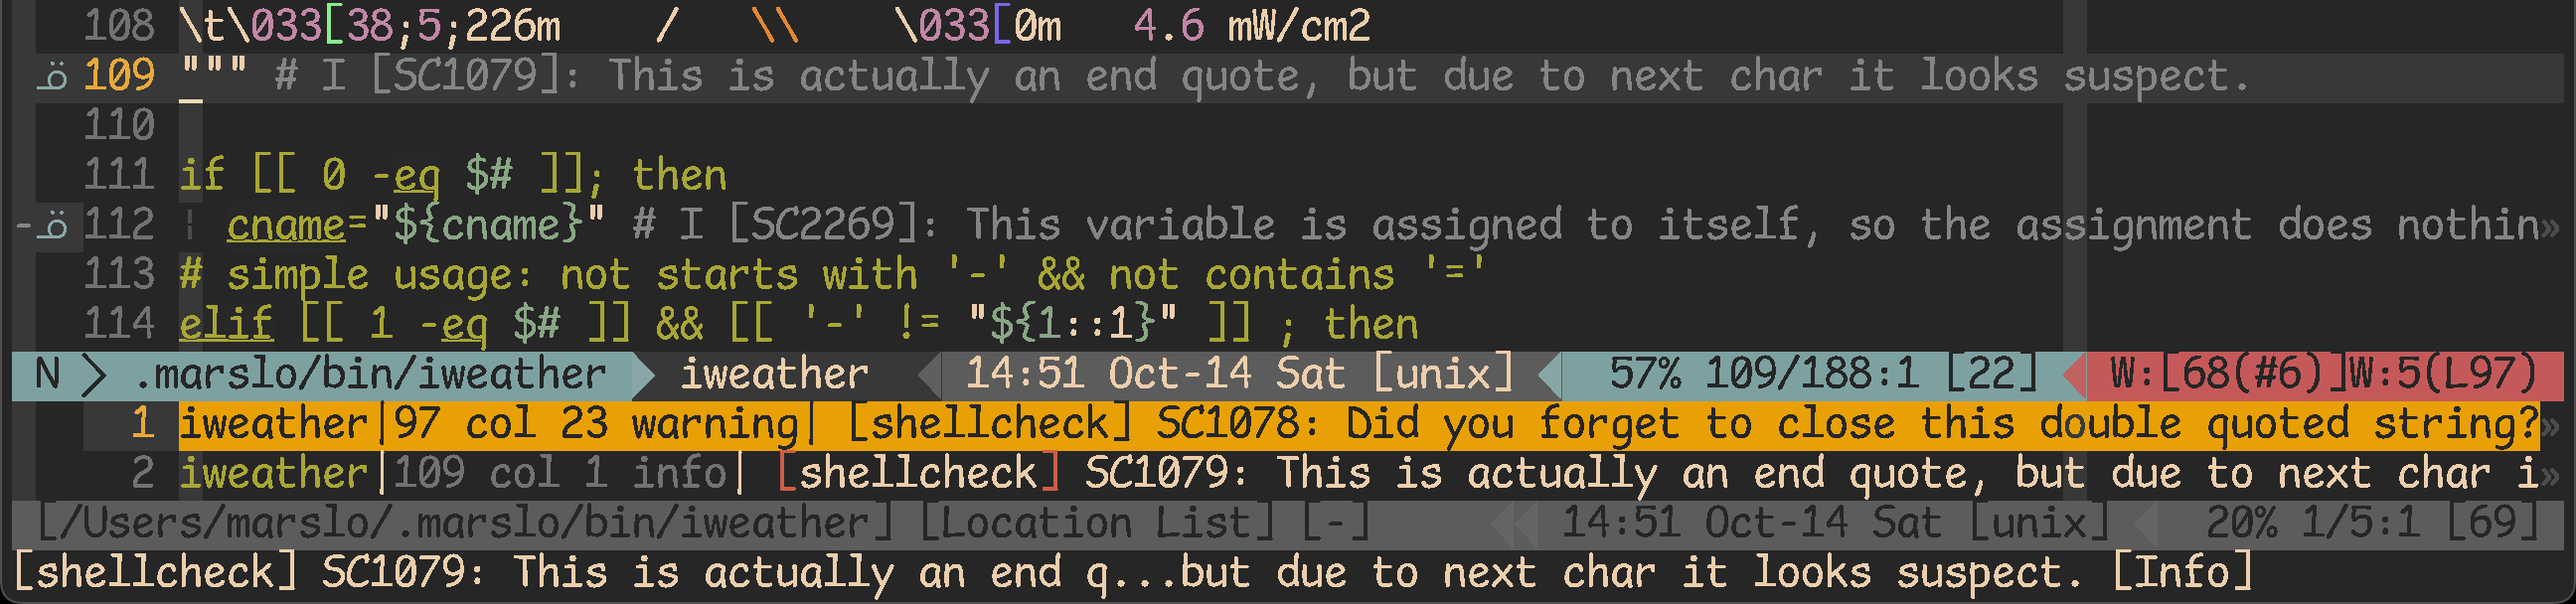
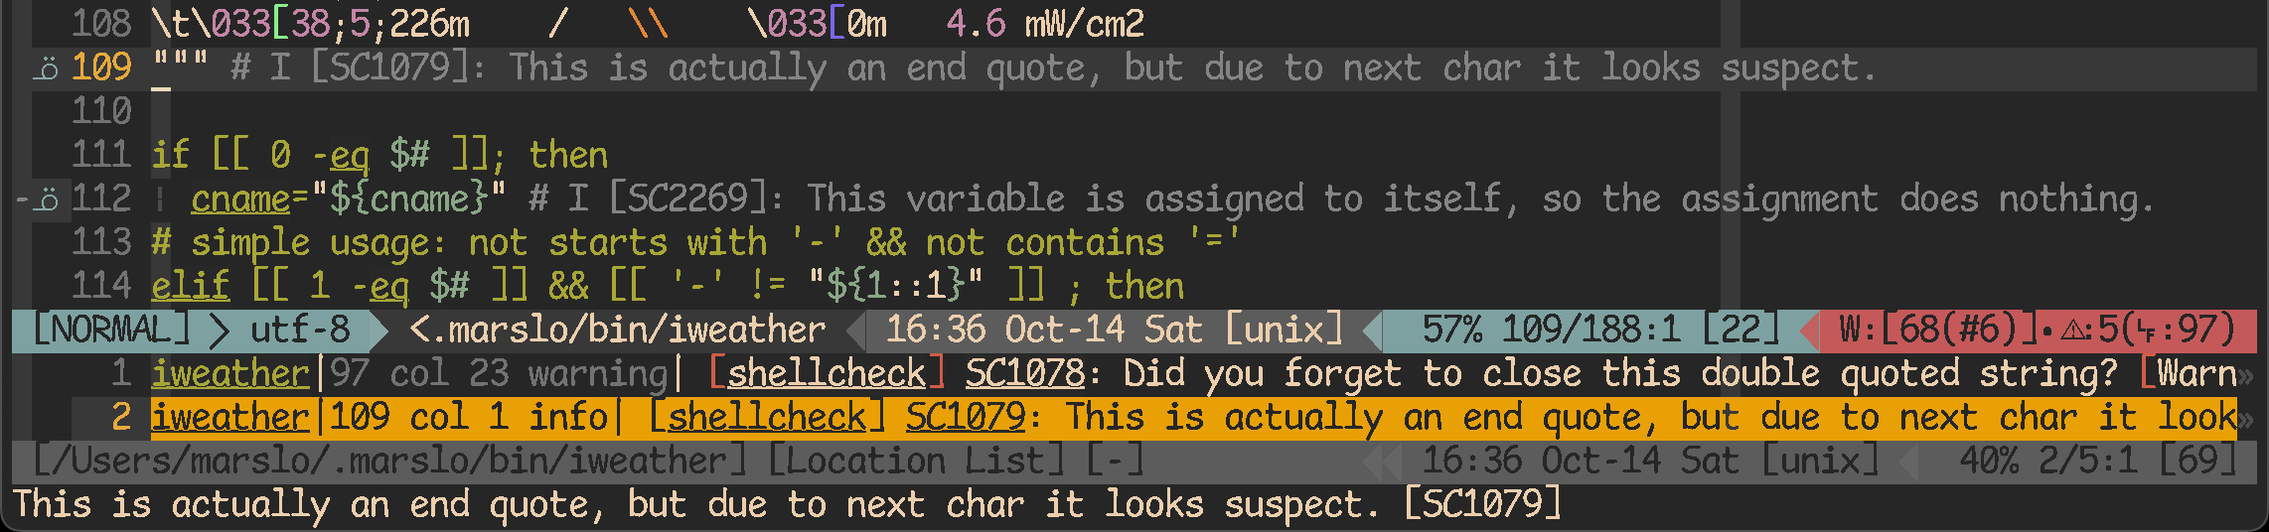
move path into section_c due to secton_a cannot be flush

diff --git a/docs/vim/plugins.md b/docs/vim/plugins.md
@@ -11,6 +11,7 @@
   - [Yggdroot/indentLine](#yggdrootindentline)
   - [airblade/vim-gitgutter](#airbladevim-gitgutter)
   - [vim-airline/vim-airline](#vim-airlinevim-airline)
+  - [dense-analysis/ale](#dense-analysisale)
 - [utils](#utils)
   - [vim-scripts/AuthorInfoDetect](#vim-scriptsauthorinfodetect)
   - [sjl/gundo.vim](#sjlgundovim)
@@ -23,7 +24,6 @@
   - [godlygeek/tabular](#godlygeektabular)
 - [git](#git)
 - [programming](#programming)
-  - [lint](#lint)
   - [vim-syntastic/syntastic](#vim-syntasticsyntastic)
   - [vim-scripts/EnhCommentify.vim](#vim-scriptsenhcommentifyvim)
   - [tpope/vim-commentary](#tpopevim-commentary)
@@ -413,33 +413,44 @@ let g:airline_powerline_fonts                      = 1
 let g:airline_highlighting_cache                   = 1
 let g:airline_detect_spelllang                     = 0              " disable spelling language
 let g:airline_exclude_preview                      = 0              " disable in preview window
-let g:airline_theme                                = 'tomorrow'
-" let g:airline_theme                                = 'zenburn'
+let g:airline_theme                                = 'base16'       " 'apprentice', 'base16_embers', 'gruvbox', 'zenburn'
 let g:Powerline_symbols                            = 'fancy'
 let g:airline_section_y                            = ''             " fileencoding
 let g:airline_section_x                            = ''
 let g:airline_section_z                            = "%3p%% %l/%L:%c [%B]"
 let g:airline_skip_empty_sections                  = 1
+let g:airline_detect_modified                      = 1
+let g:airline_detect_paste                         = 1
 let g:airline#extensions#wordcount#enabled         = 0
+let g:airline#extensions#quickfix#enabled          = 0
+let g:airline#extensions#quickfix#quickfix_text    = 'Quickfix'
 let g:airline#extensions#tabline#fnamemod          = ':t'
-let g:airline#extensions#tabline#enabled           = 1              " enable airline tabline
-let g:airline#extensions#tabline#show_close_button = 0              " remove 'X' at the end of the tabline
-let g:airline#extensions#tabline#tab_min_count     = 2              " minimum of 2 tabs needed to display the tabline
-let g:airline#extensions#tabline#show_splits       = 0              " disables the buffer name that displays on the right of the tabline
-let g:airline#extensions#tabline#enabled           = 1
-let g:airline#extensions#tabline#tab_nr_type       = 1              " tab number
+let g:airline_stl_path_style                       = 'short'
+let g:airline#extensions#tabline#enabled           = 1              " ╮ enable airline tabline
+let g:airline#extensions#tabline#show_close_button = 0              " │ remove 'X' at the end of the tabline
+let g:airline#extensions#tabline#show_buffers      = 1              " │
+let g:airline#extensions#tabline#show_splits       = 0              " │ disables the buffer name that displays on the right of the tabline
+let g:airline#extensions#tabline#tab_min_count     = 2              " │ minimum of 2 tabs needed to display the tabline
+let g:airline#extensions#tabline#show_tabs         = 1              " │
+let g:airline#extensions#tabline#tab_nr_type       = 1              " ╯ tab number
 let g:airline#extensions#branch#format             = 2
+let g:airline#extensions#ale#enabled               = 1              " ╮
+let airline#extensions#ale#error_symbol            = ' ᓆ :'         " │
+let airline#extensions#ale#warning_symbol          = ' ᣍ :'         " ├ ale
+let airline#extensions#ale#show_line_numbers       = 1              " │
+let airline#extensions#ale#open_lnum_symbol        = '(␊:'          " │
+let airline#extensions#ale#close_lnum_symbol       = ')'            " ╯
 if !exists('g:airline_symbols') | let g:airline_symbols = {} | endif
 let g:airline_symbols.dirty                        = ' ♪'
-let g:airline_symbols.space                        = "\ua0"
-let g:airline_mode_map                             = { '__': '-', 'n' : 'N', 'i' : 'I', 'R' : 'R', 'c' : 'C', 'v' : 'V', 'V' : 'V', '': 'V', 's' : 'S', 'S' : 'S', '': 'S', }
 function! AirlineInit()
-  let g:airline_section_a = airline#section#create([ 'mode', '  ', '%{join( split(expand("%:p"), "/")[-3:-1], "/" )}' ])
-  let g:airline_section_y = airline#section#create(['%{strftime("%H:%M %b-%d %a")} ', '['.&ff.']'])
-  " let g:airline_section_c = '%<' . airline#section#create(['%{expand("%:p:~")}'])
+  let g:airline_section_a = airline#section#create([ '[', 'mode', ']', '  ', '%{&fenc}' ])
+  let g:airline_section_y = airline#section#create([ '%{strftime("%H:%M %b-%d %a")} ', '['.&ff.']' ])
+  let g:airline_section_c = '%<' . airline#section#create([ '%F' ]) " let g:airline_section_c = '%<' . '%{expand(%:p:~)}'
 endfunction
 autocmd User AirlineAfterInit call AirlineInit()
 ```
+
+![airline + ale](../screenshot/vim/vim-airline-ale.png)
 
 - tips
   - [remove section_<x>](https://stackoverflow.com/a/45150368/2940319)
@@ -447,32 +458,6 @@ autocmd User AirlineAfterInit call AirlineInit()
     let g:airline_section_<x>         = ''                          " remove the filetype part
     let g:airline_skip_empty_sections = 1                           " remove separators for empty sections
     ```
-
-  - setup sections:
-
-    > [!NOTE|label:references:]
-    > - [#696 : Accents may cause status line exceed width](https://github.com/vim-airline/vim-airline/issues/696#issuecomment-75034875)
-
-    ```vim
-    let g:airline_section_x                          = "%-{strftime(\"%H:%M\ %d/%m/%y\")} %1*--%n%%--%*"
-    let g:airline_section_y                          = "%{&fenc}%{&bomb ? '[bom]' : ''}%{strlen(&ff) > 0 ? '['.&ff.']' : ''}"
-    let g:airline#parts#ffenc#skip_expected_string   ='utf-8[unix]'
-    let g:airline_section_c_only_filename            = 0
-
-    function! AirlineInit()
-      " NORMAL  docs/vim/
-      let g:airline_section_a = airline#section#create([ 'mode', '  ', '%{join( split(getcwd(), "/")[-2:-1], "/" )}', '/' ])
-      " NORMAL  docs/vim/plugins.md
-      let g:airline_section_a = airline#section#create([ 'mode', '  ', '%{join( split(expand("%:p"), "/")[-3:-1], "/" )}' ])
-      let g:airline_section_y = airline#section#create(['%{strftime("%H:%M %b-%d %a")} ', '['.&ff.']'])
-      let g:airline_section_c = '%<' . airline#section#create(['%{expand("%:p:~")}'])
-    endfunction
-    autocmd User AirlineAfterInit call AirlineInit()
-    ```
-
-    ![section_a with default mode](../screenshot/vim/vim-airline-section_a-default.png)
-
-    ![section_a with short mode](../screenshot/vim/vim-airline-section_a-short.png)
 
   - setup short mode
     ```vim
@@ -561,35 +546,129 @@ autocmd User AirlineAfterInit call AirlineInit()
     let g:airline_theme                  = 'random'
     ```
 
-  - [tabline](https://github.com/vim-airline/vim-airline/issues/1043#issuecomment-188236831)
+#### sections:
+
+> [!NOTE|label:references:]
+> - [#696 : Accents may cause status line exceed width](https://github.com/vim-airline/vim-airline/issues/696#issuecomment-75034875)
+
+```vim
+let g:airline_section_x                          = "%-{strftime(\"%H:%M\ %d/%m/%y\")} %1*--%n%%--%*"
+let g:airline_section_y                          = "%{&fenc}%{&bomb ? '[bom]' : ''}%{strlen(&ff) > 0 ? '['.&ff.']' : ''}"
+let g:airline#parts#ffenc#skip_expected_string   ='utf-8[unix]'
+let g:airline_section_c_only_filename            = 0
+
+function! AirlineInit()
+  " NORMAL  docs/vim/
+  let g:airline_section_a = airline#section#create([ 'mode', '  ', '%{join( split(getcwd(), "/")[-2:-1], "/" )}', '/' ])
+  " NORMAL  docs/vim/plugins.md
+  let g:airline_section_a = airline#section#create([ 'mode', '  ', '%{join( split(expand("%:p"), "/")[-3:-1], "/" )}' ])
+  let g:airline_section_y = airline#section#create(['%{strftime("%H:%M %b-%d %a")} ', '['.&ff.']'])
+  let g:airline_section_c = '%<' . airline#section#create(['%{expand("%:p:~")}'])
+endfunction
+autocmd User AirlineAfterInit call AirlineInit()
+```
+
+- section_a
+
+  > [!NOTE|label:paths:]
+  > - show relative path `%F` : `let g:airline_section_c = airline#section#create([ '%F' ])` -> `~/.vimrc`
+  > - show filename only `%f` : `let g:airline_section_c = airline#section#create([ '%f' ])` -> `.vimrc`
+
+  ![section_a with default mode](../screenshot/vim/vim-airline-section_a-default.png)
+
+  ![section_a with short mode](../screenshot/vim/vim-airline-section_a-short.png)
+
+  - via function
     ```vim
-    let g:airline#extensions#tabline#enabled = 1
-    let g:airline#extensions#tabline#show_buffers = 0
-    let g:airline#extensions#tabline#show_splits = 0
-    let g:airline#extensions#tabline#show_tabs = 1
-    let g:airline#extensions#tabline#show_tab_nr = 0
-    let g:airline#extensions#tabline#show_tab_type = 0
-    let g:airline#extensions#tabline#close_symbol = '×'
-    let g:airline#extensions#tabline#show_close_button = 0
+    function! ShortPath()
+      let pathlist=split(expand("%:p:~"), "/")
+      return len(pathlist) < 3 ? join( pathlist[-2:-1], "/" ) : join( pathlist[-3:-1], "/" )
+    endfunction
+    " or"
+    function! ShortPath()
+      let pathlist=split(expand("%:p:~"), "/")
+      if len(pathlist) < 3 | let final_result=join( pathlist[-2:-1], "/" ) | else | let final_result=join( pathlist[-3:-1], "/" ) | endif
+      return final_result
+    endfunction
+
+    let g:airline_section_a = airline#section#create([ 'mode', '  ', ShortPath() ])
     ```
 
-  - quickfix
+    - i.e.:
+      ```vim
+      function! ShortPath()
+        let pathlist=split(expand("%:p:~"), "/")
+        return len(pathlist) < 3 ? join( pathlist[-2:-1], "/" ) : join( pathlist[-3:-1], "/" )
+      endfunction
+      function! AirlineInit()
+        let g:airline_section_a = airline#section#create([ '[', 'mode', ']', '  ', '%{&fenc}', '  ', ShortPath() ])
+        let g:airline_section_y = airline#section#create([ '%{strftime("%H:%M %b-%d %a")} ', '['.&ff.']' ])
+        let g:airline_section_c = '%<' . airline#section#create([ '%F' ]) " let g:airline_section_c = '%<' . '%{expand(%:p:~)}'
+      endfunction
+      autocmd User AirlineAfterInit call AirlineInit()
+      ```
+
+      ![airline section_a shortpath](../screenshot/vim/vim-airline-section_a-shortpath-1.png)
+
+  - via `%{}`
     ```vim
-    :echo getwininfo()
-    [{'winnr': 1, 'variables': {'airline_lastmode': 'inactive spell', 'm1': 1000, 'css_color_match_id': [], 'indentLine_ind
-    entLineId': [1001, 1002, 1003, 1004, 1005, 1006, 1007, 1008, 1009, 1010, 1011, 1012, 1013, 1014, 1015, 1016, 1017, 1018
-    , 1019, 1020, 1021], 'airline_active': 0, 'last_pos': [0, 3, 1], 'airline_current_mode': '-', 'airline_section_y': '%{s
-    trftime("%H:%M %b-%d %a")} [unix]%{v:hlsearch ? airline#extensions#searchcount#status() : ""}', 'syntastic_loclist_set'
-    : [1, 4]}, 'botline': 19, 'height': 19, 'bufnr': 1, 'winbar': 0, 'width': 119, 'tabnr': 1, 'quickfix': 0, 'topline': 1,
-     'loclist': 0, 'wincol': 1, 'winrow': 1, 'textoff': 7, 'winid': 1000, 'terminal': 0}, {'winnr': 2, 'variables': {'airli
-    ne_lastmode': 'commandline spell readonly', 'airline_section_a': 'Location', 'airline_section_b': '%{get(w:, "quickfix_
-    title", "")}', 'airline_section_c': '', 'airline_active': 1, 'indentLine_indentLineId': [1021, 1022, 1023, 1024, 1025,
-    1026, 1027, 1028, 1029, 1030, 1031, 1032, 1033, 1034, 1035, 1036, 1037, 1038, 1039, 1040, 1041], 'airline_current_mode'
-    : 'C', 'airline_section_x': '', 'airline_section_y': '%{strftime("%H:%M %b-%d %a")} [unix]%{v:hlsearch ? airline#extens
-    ions#searchcount#status() : ""}', 'quickfix_title': '/Users/marslo/.marslo/bin/iweather'}, 'botline': 1, 'height': 10,
-    'bufnr': 2, 'winbar': 0, 'width': 119, 'tabnr': 1, 'quickfix': 1, 'topline': 1, 'loclist': 1, 'wincol': 1, 'winrow': 21
-    , 'textoff': 7, 'winid': 1001, 'terminal': 0}]
+    function! AirlineInit()
+      let pathlist=split( expand("%:p:~"), "/" )
+      let g:airline_section_a = airline#section#create([ 'mode', '  ', '%{len(pathlist) < 3 ? join( pathlist[-2:-1], "/" ) : join( pathlist[-3:-1], "/" )}'])
+    endfunction
+    autocmd User AirlineAfterInit call AirlineInit()
     ```
+
+    ![airline section_a shortpath with '%{}'](../screenshot/vim/vim-airline-section_a-shortpath-2.png)
+
+
+- sections with length limitation
+  - `%<'`: `let g:airline_section_c = '%<' . airline#section#create(['%{expand("%:p:~")}'])`
+  - [`%-0.xx{}`](https://github.com/vim-airline/vim-airline/issues/1485#issuecomment-309734370) : `let g:airline_section_c = '%<' . '%-0.13{expand("%:p:~")}'`
+
+  - i.e.:
+    ```vim
+    let g:airline_section_c = '%<' . '%-0.20{expand("%:p:~")}'
+    " <docs/vim/plugins.md
+
+    let g:airline_section_c = '%<' . '%{expand("%:p:~")}'
+    " ~/path/to/ibook/docs/vim/plugins.md
+
+    let g:airline_section_c = airline#section#create(['%F'])
+    " ~/path/to/book/docs/vim/plugins.md
+    ```
+
+### [dense-analysis/ale](https://github.com/dense-analysis/ale)
+```vim
+Plugin 'stephpy/vim-yaml'
+Plugin 'pedrohdz/vim-yaml-folds'
+Plugin 'dense-analysis/ale'
+
+" yamllint                                                          " brew install yamllint
+" ale                                                               " :help g:ale_echo_msg_format
+let g:ale_echo_msg_format                 = '[%linter%] %code%: %s [%severity%] '
+let g:ale_virtualtext_prefix              = '%comment% %type% [%code%]: '
+let g:ale_sign_error                      = '💢'                    " ✘ 👾 💣  🙅 🤦
+let g:ale_sign_warning                    = 'ᑹᑹ'                    " ⚠ ⸮ ⸘ ☹
+let g:ale_sign_info                       = 'ᓆ'                     " ⸚ ϔ 𐘿 𐰦
+let g:ale_sign_style_error                = '⍥'                     " ᑹ
+let g:ale_sign_style_warning              = 'ᓍ'                     " ᓏ
+let g:ale_lint_on_text_changed            = 'never'
+let g:ale_fix_on_save                     = 0
+let g:ale_lint_on_save                    = 1
+let g:ale_warn_about_trailing_blank_lines = 1
+let g:ale_warn_about_trailing_whitespace  = 1
+let g:ale_set_balloons                    = 1
+let g:ale_hover_to_preview                = 1
+let g:ale_floating_preview                = 1
+let g:ale_close_preview_on_insert         = 1
+```
+
+![ale error](../screenshot/vim/vim-ale-error.png)
+
+![ale warning](../screenshot/vim/vim-ale-warning.png)
+
+![ale info ](../screenshot/vim/vim-ale-info.png)
 
 ## utils
 ### [vim-scripts/AuthorInfoDetect](https://github.com/vim-scripts/AuthorInfo)
@@ -769,34 +848,6 @@ command! -bar -nargs=* Gpush execute 'Git push'
 ```
 
 ## programming
-### lint
-```vim
-Plugin 'stephpy/vim-yaml'
-Plugin 'pedrohdz/vim-yaml-folds'
-Plugin 'dense-analysis/ale'
-
-" yamllint                                                          " brew install yamllint
-" ale                                                               " :help g:ale_echo_msg_format
-let g:ale_echo_msg_format                 = '[%linter%] %code%: %s [%severity%] '
-let g:ale_virtualtext_prefix              = '%comment% %type% [%code%]: '
-let g:ale_sign_error                      = '✘'
-let g:ale_sign_warning                    = '⚠'
-let g:ale_sign_info                       = 'ᓆ'
-let g:ale_sign_style_error                = '⍥'
-let g:ale_sign_style_warning              = 'ᓍ'
-let g:ale_lint_on_text_changed            = 'never'
-let g:ale_fix_on_save                     = 0
-let g:ale_lint_on_save                    = 1
-let g:ale_warn_about_trailing_blank_lines = 1
-let g:ale_warn_about_trailing_whitespace  = 1
-let g:ale_set_balloons                    = 1
-let g:ale_hover_to_preview                = 1
-```
-
-![ale warning](../screenshot/vim/vim-ale-warning.png)
-
-![ale info ](../screenshot/vim/vim-ale-info.png)
-
 ### [vim-syntastic/syntastic](https://github.com/vim-syntastic/syntastic)
 
 > [!NOTE|label:references:]
